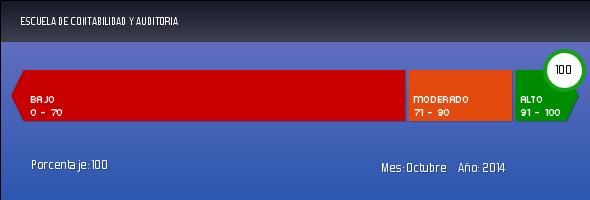
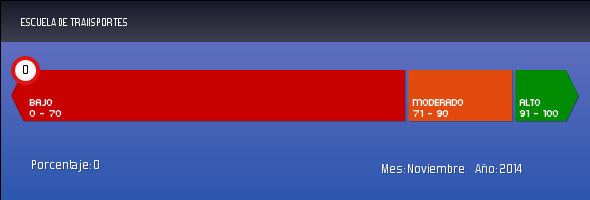
bn bmnm

diff --git a/app/controllers/MapasBalancedController.php b/app/controllers/MapasBalancedController.php
@@ -48,51 +48,105 @@ class MapasBalancedController extends BaseController {
 		}     
 	public function empresas_bsc()
 		{
+			$total=0;
+                for ($i=20; $i <= 24; $i++) 
+                { 
+                    $Indicadores=Empleado::storedProcedureCall('CALL consolidadoMacroprocesos('.$i.',1)');
+                    foreach ($Indicadores as $indicador) 
+                    {
+                        $total+=$indicador->resultado;
+                    }
+                }
 			if ($this->permiso()==1) 
 			{
-        		return View::make('mapasbalanced.empresas_bsc');
+        		return View::make('mapasbalanced.empresas_bsc')->with('total',$total);
         	}
-        	else{Login::logout(); return View::make('mapasbalanced.empresas_bsc');}
+        	else{Login::logout(); return View::make('mapasbalanced.empresas_bsc')->with('total',$total);}
 		}
 	public function cont_audi_bsc()
 		{
+			$total=0;
+                for ($i=20; $i <= 24; $i++) 
+                { 
+                    $Indicadores=Empleado::storedProcedureCall('CALL consolidadoMacroprocesos('.$i.',2)');
+                    foreach ($Indicadores as $indicador) 
+                    {
+                        $total+=$indicador->resultado;
+                    }
+                }
 			if ($this->permiso()==1) 
 			{
-        		return View::make('mapasbalanced.cont_audi_bsc');
+				return View::make('mapasbalanced.cont_audi_bsc')->with('total',$total);
 			}
-        	else{Login::logout(); return View::make('mapasbalanced.cont_audi_bsc');	}
+        	else{Login::logout(); return View::make('mapasbalanced.cont_audi_bsc')->with('total',$total);	}
 		}
 	public function finanzas_bsc()
 		{
+			$total=0;
+                for ($i=20; $i <= 24; $i++) 
+                { 
+                    $Indicadores=Empleado::storedProcedureCall('CALL consolidadoMacroprocesos('.$i.',4)');
+                    foreach ($Indicadores as $indicador) 
+                    {
+                        $total+=$indicador->resultado;
+                    }
+                }
 			if ($this->permiso()==1) 
 			{
-        		return View::make('mapasbalanced.finanzas_bsc');
+        		return View::make('mapasbalanced.finanzas_bsc')->with('total',$total);
 			}
-        	else{Login::logout(); return View::make('mapasbalanced.finanzas_bsc');}
+        	else{Login::logout(); return View::make('mapasbalanced.finanzas_bsc')->with('total',$total);}
 		}
 	public function marketing_bsc()
 		{
+			$total=0;
+                for ($i=20; $i <= 24; $i++) 
+                { 
+                    $Indicadores=Empleado::storedProcedureCall('CALL consolidadoMacroprocesos('.$i.',5)');
+                    foreach ($Indicadores as $indicador) 
+                    {
+                        $total+=$indicador->resultado;
+                    }
+                }
 			if ($this->permiso()==1) 
 			{
-        		return View::make('mapasbalanced.marketing_bsc');
+        		return View::make('mapasbalanced.marketing_bsc')->with('total',$total);
 			}
-        	else{Login::logout(); return View::make('mapasbalanced.marketing_bsc');}
+        	else{Login::logout(); return View::make('mapasbalanced.marketing_bsc')->with('total',$total);}
 		}
 	public function transporte_bsc()
 		{
+			$total=0;
+                for ($i=20; $i <= 24; $i++) 
+                { 
+                    $Indicadores=Empleado::storedProcedureCall('CALL consolidadoMacroprocesos('.$i.',5)');
+                    foreach ($Indicadores as $indicador) 
+                    {
+                        $total+=$indicador->resultado;
+                    }
+                }
 			if ($this->permiso()==1) 
 			{
-        		return View::make('mapasbalanced.transporte_bsc');
+        		return View::make('mapasbalanced.transporte_bsc')->with('total',$total);
 			}
-			else{Login::logout(); return View::make('mapasbalanced.transporte_bsc');}
+			else{Login::logout(); return View::make('mapasbalanced.transporte_bsc')->with('total',$total);}
 		}
 	public function fade_bsc()
 		{
+			$total=0;
+                for ($i=20; $i <= 24; $i++) 
+                { 
+                    $Indicadores=Empleado::storedProcedureCall('CALL consolidadoMacroprocesos('.$i.',8)');
+                    foreach ($Indicadores as $indicador) 
+                    {
+                        $total+=$indicador->resultado;
+                    }
+                }
 			if ($this->permiso()==1) 
 			{
-        		return View::make('mapasbalanced.fade_bsc');
+        		return View::make('mapasbalanced.fade_bsc')->with('total',$total);
 			}
-			else{Login::logout(); return View::make('mapasbalanced.fade_bsc');}
+			else{Login::logout(); return View::make('mapasbalanced.fade_bsc')->with('total',$total);}
 		}
 	public function perspectivas()
 		{

diff --git a/app/views/mapasbalanced/transporte_bsc.blade.php b/app/views/mapasbalanced/transporte_bsc.blade.php
@@ -38,11 +38,17 @@
         <div id="position1" class="layout-cell content">    
               <center> <label>Avance BSC</label>
                     <a rel="floatbox" class="fbPopup" title="Avance BSC Gestión de Transporte" rev="width:608 height:217 scrolling:no" href="../consolidadoEscuela_bsc/{{Session::get('escuela')}}">
-                      <input type="image" src="{{asset('images/Utilitarios/rojo.png'); }}"/>
+                       @if($total <= 70) 
+                          <input type="image" src="{{asset('images/Utilitarios/rojo.png'); }}"/>
+                           @elseif($total >= 70 && $total <= 90)
+                             <input type="image" src="{{asset('images/Utilitarios/naranja.png'); }}"/>
+                           @elseif($total >= 91 && $total <= 100)
+                             <input type="image" src="{{asset('images/Utilitarios/verde.png'); }}"/> 
+                        @endif
                     </a>
                     <br/>
                 <!-- Logo SGC escuela -->    
-                  <img src="{{ asset('images/transportebsc/transporte.png') }}" width="850" height="295">
+                  <img src="{{ asset('images/transportebsc/transporte.png') }}" width="780" height="295">
             </center>     
 
 

diff --git a/app/views/mapasbalanced/empresas_bsc.blade.php b/app/views/mapasbalanced/empresas_bsc.blade.php
@@ -38,11 +38,17 @@
         <div id="position1" class="layout-cell content">    
           <center> <label>Avance BSC</label>
                     <a rel="floatbox" class="fbPopup" title="Avance BSC Administración de Empresas" rev="width:608 height:217 scrolling:no" href="../consolidadoEscuela_bsc/{{Session::get('escuela')}}">
-                      <input type="image" src="{{asset('images/Utilitarios/rojo.png'); }}"/>
+                      @if($total <= 70) 
+                          <input type="image" src="{{asset('images/Utilitarios/rojo.png'); }}"/>
+                           @elseif($total >= 70 && $total <= 90)
+                             <input type="image" src="{{asset('images/Utilitarios/naranja.png'); }}"/>
+                           @elseif($total >= 91 && $total <= 100)
+                             <input type="image" src="{{asset('images/Utilitarios/verde.png'); }}"/> 
+                        @endif
                     </a>
                     <br/>
                 <!-- Logo SGC escuela -->    
-                  <img src="{{ asset('images/empresasbsc/empresas.png') }}" width="850" height="295">
+                  <img src="{{ asset('images/empresasbsc/empresas.png') }}" width="780" height="295">
             </center>     
 
 

diff --git a/app/views/mapasbalanced/fade_bsc.blade.php b/app/views/mapasbalanced/fade_bsc.blade.php
@@ -38,11 +38,17 @@
         <div id="position1" class="layout-cell content">    
            <center> <label>Avance BSC</label>
                     <a rel="floatbox" class="fbPopup" title="Avance BSC Facultad Administración de Empresas" rev="width:608 height:217 scrolling:no" href="../consolidadoEscuela_bsc/{{Session::get('escuela')}}">
-                      <input type="image" src="{{asset('images/Utilitarios/rojo.png'); }}"/>
+                       @if($total <= 70) 
+                          <input type="image" src="{{asset('images/Utilitarios/rojo.png'); }}"/>
+                           @elseif($total >= 70 && $total <= 90)
+                             <input type="image" src="{{asset('images/Utilitarios/naranja.png'); }}"/>
+                           @elseif($total >= 91 && $total <= 100)
+                             <input type="image" src="{{asset('images/Utilitarios/verde.png'); }}"/> 
+                        @endif
                     </a>
                     <br/>
                 <!-- Logo SGC escuela -->    
-                  <img src="{{ asset('images/fadebsc/fade.png') }}" width="850" height="295">
+                  <img src="{{ asset('images/fadebsc/fade.png') }}" width="800" height="295">
             </center>     
 
 

diff --git a/app/views/mapasbalanced/marketing_bsc.blade.php b/app/views/mapasbalanced/marketing_bsc.blade.php
@@ -38,11 +38,17 @@
         <div id="position1" class="layout-cell content">    
              <center> <label>Avance BSC</label>
                     <a rel="floatbox" class="fbPopup" title="Avance BSC Marketing" rev="width:608 height:217 scrolling:no" href="../consolidadoEscuela_bsc/{{Session::get('escuela')}}">
-                      <input type="image" src="{{asset('images/Utilitarios/chart_bar.png'); }}"/>
+                      @if($total <= 70) 
+                          <input type="image" src="{{asset('images/Utilitarios/rojo.png'); }}"/>
+                           @elseif($total >= 70 && $total <= 90)
+                             <input type="image" src="{{asset('images/Utilitarios/naranja.png'); }}"/>
+                           @elseif($total >= 91 && $total <= 100)
+                             <input type="image" src="{{asset('images/Utilitarios/verde.png'); }}"/> 
+                        @endif
                     </a>
                     <br/>
                 <!-- Logo SGC escuela -->    
-                  <img src="{{ asset('images/marketingbsc/marketing.png') }}" width="850" height="295">
+                  <img src="{{ asset('images/marketingbsc/marketing.png') }}" width="780" height="295">
             </center>     
 
 

diff --git a/app/views/mapasbalanced/finanzas_bsc.blade.php b/app/views/mapasbalanced/finanzas_bsc.blade.php
@@ -38,11 +38,17 @@
         <div id="position1" class="layout-cell content">    
             <center> <label>Avance BSC</label>
                     <a rel="floatbox" class="fbPopup" title="Avance BSC Finanzas" rev="width:608 height:217 scrolling:no" href="../consolidadoEscuela_bsc/{{Session::get('escuela')}}">
-                      <input type="image" src="{{asset('images/Utilitarios/rojo.png'); }}"/>
+                       @if($total <= 70) 
+                          <input type="image" src="{{asset('images/Utilitarios/rojo.png'); }}"/>
+                           @elseif($total >= 70 && $total <= 90)
+                             <input type="image" src="{{asset('images/Utilitarios/naranja.png'); }}"/>
+                           @elseif($total >= 91 && $total <= 100)
+                             <input type="image" src="{{asset('images/Utilitarios/verde.png'); }}"/> 
+                        @endif
                     </a>
                     <br/>
                 <!-- Logo SGC escuela -->    
-                  <img src="{{ asset('images/finanzasbsc/finanzas.png') }}" width="850" height="295">
+                  <img src="{{ asset('images/finanzasbsc/finanzas.png') }}" width="780" height="295">
             </center>     
 
 

diff --git a/app/views/mapasbalanced/cont_audi_bsc.blade.php b/app/views/mapasbalanced/cont_audi_bsc.blade.php
@@ -39,11 +39,17 @@
             
                <center> <label>Avance BSC</label>
                     <a rel="floatbox" class="fbPopup" title="Avance BSC Contabilidad y Auditoría" rev="width:608 height:217 scrolling:no" href="../consolidadoEscuela_bsc/{{Session::get('escuela')}}">
-                      <input type="image" src="{{asset('images/Utilitarios/rojo.png'); }}"/>
+                        @if($total <= 70) 
+                          <input type="image" src="{{asset('images/Utilitarios/rojo.png'); }}"/>
+                           @elseif($total >= 70 && $total <= 90)
+                             <input type="image" src="{{asset('images/Utilitarios/naranja.png'); }}"/>
+                           @elseif($total >= 91 && $total <= 100)
+                             <input type="image" src="{{asset('images/Utilitarios/verde.png'); }}"/> 
+                        @endif
                     </a>
                     <br/>
                 <!-- Logo SGC escuela -->    
-                  <img src="{{ asset('images/contabilidadbsc/contabilidad.png') }}" width="850" height="295">
+                  <img src="{{ asset('images/contabilidadbsc/contabilidad.png') }}" width="800" height="295">
             </center>     
 
 

diff --git a/app/views/home/welcome.blade.php b/app/views/home/welcome.blade.php
@@ -36,7 +36,10 @@
                                 <div id="central-content"> 
                                 <div id="apDiv265"><img style="cursor:pointer;" src="{{asset('images/Utilitarios/volver.png')}}" width="45" height="45"></div>
                                 <center>
-                                    <h7>Cumplimiento: </h7><input type="image" src="{{asset('images/Utilitarios/rojo.png'); }}"/> 
+                                    <h7>Cumplimiento: </h7>
+                                      <a rel="floatbox" class="fbPopup" title="Avance SGC Facultadl" rev="width:608 height:217 scrolling:no" href="../consolidadoFacultad">
+                                        <input type="image" src="{{asset('images/Utilitarios/rojo.png'); }}"/> 
+                                      </a>
                                 </center>
                                       </br>
                                          <div class="demo">
